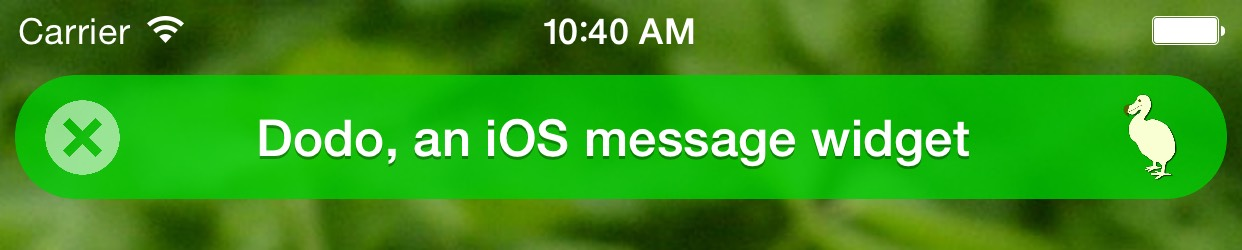
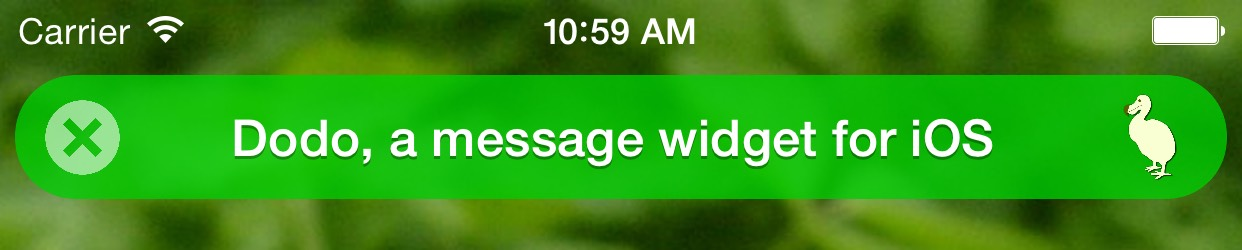
Update message image

Changed region(s): [[0.1836, 0.476, 0.8261, 0.672], [0.4589, 0.056, 0.5813, 0.196]]

diff --git a/Demo/ViewController.swift b/Demo/ViewController.swift
@@ -86,7 +86,7 @@ class ViewController: UIViewController {
   }
   
   @IBAction func onSuccessButtonTapped(sender: AnyObject) {
-    message = "Dodo, an iOS message widget"
+    message = "Dodo, a message widget for iOS"
     view.dodo.preset = DodoPresets.Success
     show()
   }
